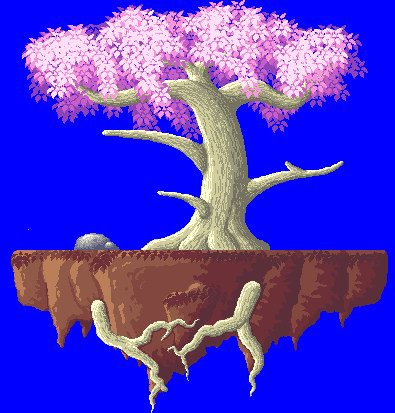
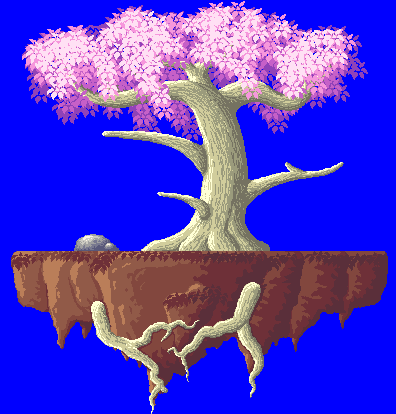
Added platforms

diff --git a/game/src/MyGame.cpp b/game/src/MyGame.cpp
@@ -77,7 +77,7 @@ void MyGame::on_Startup(void)
 
     Component<FlagComponent>::allow();
 
-    // window->set_Fullscreen();
+    window->set_Fullscreen();
 
     GEAR_DEBUG_LOG("width: %i height: %i", window->get_Width(), window->get_Height());
 
@@ -93,29 +93,74 @@ void MyGame::on_Startup(void)
     sprite.sprite = ResourceManager::get<Sprite>("assets/stages/floating_island/main_stage_bg.gear");
     sprite.offset = {-sprite.sprite->get_Width() / 2., -sprite.sprite->get_Height() / 2., -0.1};
 
-    Entity platform = main_Scene->create_Entity();
-    platform.add<TransformComponent>({{0, 0}, {1, 1}, 0});
-    platform.add<SpriteComponent>(sprite);
+    Entity stage = main_Scene->create_Entity();
+    stage.add<TransformComponent>({{0, 0}, {1, 1}, 0});
+    stage.add<SpriteComponent>(sprite);
 
     StaticPhysicsComponent physics;
     physics.collider = Collider::create(Rect{{-sprite.sprite->get_Width() / 2. + 16, -sprite.sprite->get_Height() / 2. + 250}, {sprite.sprite->get_Width() / 2. - 10, -sprite.sprite->get_Height() / 2. + 290}});
     physics.check = gear::default_Physics_Check;
     physics.restitution = 1;
-    platform.add<StaticPhysicsComponent>(physics);
+    stage.add<StaticPhysicsComponent>(physics);
 
     physics.check = platform_Physics_Check;
 
     sprite.sprite = ResourceManager::get<Sprite>("assets/stages/floating_island/main_stage_fg.gear");
     sprite.offset = {-sprite.sprite->get_Width() / 2., -sprite.sprite->get_Height() / 2., 0.1};
 
-    Entity platform2 = main_Scene->create_Entity();
-    platform2.add<TransformComponent>({{0, 0}, {1, 1}, 0});
-    platform2.add<SpriteComponent>(sprite);
+    Entity stage2 = main_Scene->create_Entity();
+    stage2.add<TransformComponent>({{0, 0}, {1, 1}, 0});
+    stage2.add<SpriteComponent>(sprite);
     //physics.collider = Collider::create(Rect{{-sprite.sprite->get_Width() / 2. + 250, -sprite.sprite->get_Height() / 2. + 11}, {-sprite.sprite->get_Width() / 2. + 280, sprite.sprite->get_Height() / 2. - 7}});
     //platform2.add<StaticPhysicsComponent>(physics);
 
-    medusa = main_Scene->create_Entity();
-    medusa.add<ScriptComponent>(ScriptComponent().bind<EisScript>(InputDevice::KEYBOARD));
+    p1 = main_Scene->create_Entity();
+    p1.add<ScriptComponent>(ScriptComponent().bind<EisScript>(InputDevice::KEYBOARD, "vanilla.gear"));
+    p1.set<TransformComponent>({{-100, -30}});
+
+    p2 = main_Scene->create_Entity();
+    p2.add<ScriptComponent>(ScriptComponent().bind<EisScript>(InputDevice::CONTROLLER_1, "dark.gear"));
+    p2.set<TransformComponent>({{100, -30}});
+
+    StaticPhysicsComponent physics2;
+    physics2.collider = Collider::create(Rect({0, 0}, {100, 6}));
+    physics2.check = platform_Physics_Check;
+
+    Entity platform1 = main_Scene->create_Entity();
+    platform1.set<TransformComponent>({{-sprite.sprite->get_Width() / 2 + 135., -sprite.sprite->get_Height() / 2 + 185.}, {1, 1}, 0});
+    platform1.add<StaticPhysicsComponent>(physics2);
+
+    physics2.collider = Collider::create(Rect({0, 0}, {100, 6}));
+
+    Entity platform2 = main_Scene->create_Entity();
+    platform2.set<TransformComponent>({{-sprite.sprite->get_Width() / 2 + 60., -sprite.sprite->get_Height() / 2 + 118.}, {1, 1}, 0});
+    platform2.add<StaticPhysicsComponent>(physics2);
+
+    physics2.collider = Collider::create(Rect({0, 0}, {100, 6}));
+
+    Entity platform3 = main_Scene->create_Entity();
+    platform3.set<TransformComponent>({{-sprite.sprite->get_Width() / 2 + 267., -sprite.sprite->get_Height() / 2 + 154.}, {1, 1}, 0});
+    platform3.add<StaticPhysicsComponent>(physics2);
+
+    //health_P1 = main_Scene->create_Entity();
+    // TextComponent t;
+    // t.text = "0.0%";
+    // t.font = ResourceManager::get<Font>("assets/fonts/font1.gear");
+    // t.colors = std::vector<Vector<uint8_t, 4>>(t.font->get_Colors());
+    // t.colors[0] = {240, 16, 16, 255};
+    // t.colors[1] = {120,  8,  8, 255};
+    // t.break_Word = true;
+    // t.height = 200;
+    // t.width = 200;
+    // t.offset = {-10, -20};
+    // p1.add<TextComponent>(t);
+
+    // //health_P2 = main_Scene->create_Entity();
+
+    // t.text = "15.0%";
+    // t.colors[0] = {16, 64, 255, 255};
+    // t.colors[1] = { 8, 32, 127, 255};
+    // p2.add<TextComponent>(t);
 
     main_Scene->update_Transformation();
 
@@ -128,9 +173,10 @@ void MyGame::on_Startup(void)
 
 void MyGame::render(void)
 {
-    cam_Pos = medusa.get<TransformComponent>()->position;
+    cam_Pos = (p1.get<TransformComponent>()->position + p2.get<TransformComponent>()->position) / 2;
 
     cam.follow_Target();
+    
     Renderer::start_New_Frame();
     Renderer::render_Scene(main_Scene);
     // Renderer::render_All_Hitboxes(main_Scene);

diff --git a/game/src/scripts/BaseFighterScript.cpp b/game/src/scripts/BaseFighterScript.cpp
@@ -18,7 +18,7 @@ static bool fighter_Physics_Check(gear::CollisionEvent e)
     return true;
 }
 
-BaseFighterScript::BaseFighterScript(InputDevice device, const char *base_Path)
+BaseFighterScript::BaseFighterScript(InputDevice device, const char *base_Path, std::string palette_Name)
 {
     if (!error_Animation)
         error_Animation = ResourceManager::get<Animation>("assets/fighters/_error/error.gear");
@@ -38,12 +38,12 @@ BaseFighterScript::BaseFighterScript(InputDevice device, const char *base_Path)
                 set_Direction(real_Val);
                 play_Animation(&a_Run[0]);
                 if (input->special->get_State() == State::PRESSED)
-                    GEAR_DEBUG_LOG("side special %i", real_Val);
+                    play_Animation(a_Sspecial, FIGHTER_ANIMATION_SPECIAL);
                 else if (input->attack->get_State() == State::PRESSED)
                     if (flags & FIGHTER_GROUND)
-                        GEAR_DEBUG_LOG("side ground %i", real_Val);
+                        play_Animation(a_Sground, FIGHTER_ANIMATION_ATTACK);
                     else
-                        GEAR_DEBUG_LOG("side air %i", real_Val);
+                        play_Animation(a_Sair, FIGHTER_ANIMATION_ATTACK);
             }
             else if (flags & FIGHTER_GROUND)
             {
@@ -58,12 +58,12 @@ BaseFighterScript::BaseFighterScript(InputDevice device, const char *base_Path)
         if (a == Action::PRESSED)
         {
             if (input->special->get_State() == State::PRESSED)
-                GEAR_DEBUG_LOG("up special");
+                play_Animation(a_Uspecial, FIGHTER_ANIMATION_SPECIAL);
             else if (input->attack->get_State() == State::PRESSED)
                 if (flags & FIGHTER_GROUND)
-                    GEAR_DEBUG_LOG("up ground");
+                    play_Animation(a_Uground, FIGHTER_ANIMATION_ATTACK);
                 else
-                    GEAR_DEBUG_LOG("up air");
+                    play_Animation(a_Uair, FIGHTER_ANIMATION_ATTACK);
         }
     };
 
@@ -72,12 +72,12 @@ BaseFighterScript::BaseFighterScript(InputDevice device, const char *base_Path)
         if (a == Action::PRESSED)
         {
             if (input->special->get_State() == State::PRESSED)
-                GEAR_DEBUG_LOG("down special");
+                play_Animation(a_Dspecial, FIGHTER_ANIMATION_SPECIAL);
             else if (input->attack->get_State() == State::PRESSED)
                 if (flags & FIGHTER_GROUND)
-                    GEAR_DEBUG_LOG("down ground");
+                    play_Animation(a_Dground, FIGHTER_ANIMATION_ATTACK);
                 else
-                    GEAR_DEBUG_LOG("down air");
+                    play_Animation(a_Dair, FIGHTER_ANIMATION_ATTACK);
         }
     };
 
@@ -179,7 +179,7 @@ BaseFighterScript::BaseFighterScript(InputDevice device, const char *base_Path)
     physics.check = fighter_Physics_Check;
 
     init_Input();
-    init_Animations(base_Path);
+    init_Animations(base_Path, palette_Name);
 }
 
 BaseFighterScript::~BaseFighterScript() {}
@@ -232,10 +232,10 @@ void BaseFighterScript::init_Animation(AnimationComponent *animation, std::strin
     };
 }
 
-void BaseFighterScript::init_Animations(const char *base_Path)
+void BaseFighterScript::init_Animations(const char *base_Path, std::string palette_Name)
 {
     std::string path = base_Path;
-    palette = ResourceManager::get<Palette>(path + "/palettes/default.gear");
+    palette = ResourceManager::get<Palette>(path + "/palettes/" + palette_Name);
 
     init_Animation(&a_Idle[0], path + "/animations/right/idle.gear", palette);
     init_Animation(&a_Run[0], path + "/animations/right/run.gear", palette);

diff --git a/gear/src/gear/renderer/Renderer.cpp b/gear/src/gear/renderer/Renderer.cpp
@@ -115,7 +115,7 @@ void gear::Renderer::render_Scene(gear::Scene *scene)
     glUniform1i(glGetUniformLocation(SpritePipeline::get_Instance().m_Shader, "u_Frame_Height"), m_Framebuffer.m_Height);
 
     if (m_Camera != nullptr)
-        glUniform2f(glGetUniformLocation(SpritePipeline::get_Instance().m_Shader, "u_Camera_Pos"), m_Camera->get_Position()[0], m_Camera->get_Position()[1]);
+        glUniform2f(glGetUniformLocation(SpritePipeline::get_Instance().m_Shader, "u_Camera_Pos"), round(m_Camera->get_Position()[0]), round(m_Camera->get_Position()[1]));
     else
         glUniform2f(glGetUniformLocation(SpritePipeline::get_Instance().m_Shader, "u_Camera_Pos"), 0, 0);
 
@@ -126,7 +126,7 @@ void gear::Renderer::render_Scene(gear::Scene *scene)
     glUniform1i(glGetUniformLocation(TextPipeline::get_Instance().m_Shader, "u_Frame_Height"), m_Framebuffer.m_Height);
 
     if (m_Camera != nullptr)
-        glUniform2f(glGetUniformLocation(TextPipeline::get_Instance().m_Shader, "u_Camera_Pos"), m_Camera->get_Position()[0], m_Camera->get_Position()[1]);
+        glUniform2f(glGetUniformLocation(TextPipeline::get_Instance().m_Shader, "u_Camera_Pos"), round(m_Camera->get_Position()[0]), round(m_Camera->get_Position()[1]));
     else
         glUniform2f(glGetUniformLocation(TextPipeline::get_Instance().m_Shader, "u_Camera_Pos"), 0, 0);
 
@@ -145,7 +145,7 @@ void gear::Renderer::render_Shape(const gear::Shape *shape, const Vector<float, 
     glUniform1i(glGetUniformLocation(ShapePipeline::get_Instance().m_Shader, "u_Frame_Height"), m_Framebuffer.m_Height);
 
     if (m_Camera != nullptr)
-        glUniform2f(glGetUniformLocation(ShapePipeline::get_Instance().m_Shader, "u_Camera_Pos"), int(m_Camera->get_Position()[0] + 0.5), int(m_Camera->get_Position()[1] + 0.5));
+        glUniform2f(glGetUniformLocation(ShapePipeline::get_Instance().m_Shader, "u_Camera_Pos"), round(m_Camera->get_Position()[0]), round(m_Camera->get_Position()[1]));
     else
         glUniform2f(glGetUniformLocation(ShapePipeline::get_Instance().m_Shader, "u_Camera_Pos"), 0, 0);
     ShapePipeline::get_Instance().render_Shape(shape, color);

diff --git a/game/src/scripts/EisScript.cpp b/game/src/scripts/EisScript.cpp
@@ -13,7 +13,7 @@
 
 using namespace gear;
 
-EisScript::EisScript(InputDevice device) : BaseFighterScript(device, "assets/fighters/eis") {
+EisScript::EisScript(InputDevice device, std::string palette_Name) : BaseFighterScript(device, "assets/fighters/eis", palette_Name) {
     physics.collider = Collider::create(Rect{{-12, 10}, {12, 28}});
 }
 
@@ -41,21 +41,21 @@ void EisScript::spawn_Projectile(void) {
     transform.position[0] += 26 * transform.scale[0];
     transform.position[1] += 10;
     proj.set<TransformComponent>(transform);
-    proj.update_Transformation();
 
     proj.add<AnimationComponent>(a_Projectile[0]);
 
     DynamicPhysicsComponent physics;
     physics.acceleration = {0, 0};
     physics.collider = Collider::create(Circle{{0, 0}, 7});
-    physics.velocity = 300 * transform.scale[0];
+    physics.velocity = 100 * transform.scale[0];
     proj.add<DynamicPhysicsComponent>(physics);
+    proj.update_Transformation();
 
     class ProjectileScript : public ScriptableEntity {
     private:
         double time_To_Live = 1;
 
-        void pre_Physics(void) override {
+        void pre_Input(void) override {
             time_To_Live -= Game::get_Delta_Time();
             if(time_To_Live <= 0)
                 Scene::get(m_Entity.get_Scene_ID())->remove_Entity(m_Entity);

diff --git a/gear/src/gear/renderer/pipelines/TextPipeline.cpp b/gear/src/gear/renderer/pipelines/TextPipeline.cpp
@@ -190,6 +190,7 @@ void gear::TextPipeline::render_Text(Entity parent, TextComponent &text, Transfo
         glGenBuffers(1, &data.vertex_Buffer_ID);
         glGenBuffers(1, &data.index_Buffer_ID);
 
+        GEAR_DEBUG_LOG("colors[0]: {%i, %i, %i, %i}", data.state.colors[0][0], data.state.colors[0][1], data.state.colors[0][2], data.state.colors[0][3]);
         instance.generate_Buffers(&data);
 
         instance.m_Cache[parent.get_Scene_ID()].insert({parent.get_Entity_ID(), data});
@@ -207,6 +208,8 @@ void gear::TextPipeline::render_Text(Entity parent, TextComponent &text, Transfo
             text.break_Word != text_Other.break_Word)
         {
             instance.m_Cache[parent.get_Scene_ID()][parent.get_Entity_ID()].state = text;
+            auto data = instance.m_Cache[parent.get_Scene_ID()][parent.get_Entity_ID()];
+            GEAR_DEBUG_LOG("colors[0]: {%i, %i, %i, %i}", data.state.colors[0][0], data.state.colors[0][1], data.state.colors[0][2], data.state.colors[0][3]);
             instance.generate_Buffers(&(instance.m_Cache[parent.get_Scene_ID()][parent.get_Entity_ID()]));
         }
     }

diff --git a/game/src/scripts/BaseFighterScript.h b/game/src/scripts/BaseFighterScript.h
@@ -39,6 +39,9 @@ protected:
     double jump_Strenght = 400;
     double air_Jump_Strength = 350;
 
+    int max_Health = 500;
+    int health = 500;
+
     std::function<void(gear::Action)>
         up_Callback,
         down_Callback,
@@ -74,20 +77,20 @@ protected:
         a_Get_Up[2];
 
 public:
-    BaseFighterScript(gear::InputDevice device, const char *base_Path);
+    BaseFighterScript(gear::InputDevice device, const char *base_Path, std::string palette_Name);
     ~BaseFighterScript();
 
     virtual void init(void) override;
 
     virtual void init_Input(void);
-    virtual void init_Animations(const char *base_Path);
+    virtual void init_Animations(const char *base_Path, std::string palette_Name);
 
     void init_Animation(gear::AnimationComponent *animation, std::string path, gear::Ref<gear::Palette> palette);
 
     static int axis_As_Int(float value);
 
     virtual void pre_Physics(void) override;
-    virtual void init_Animation_Events(void) = 0;
+    virtual void init_Animation_Events(void);
 
     // virtual void damage(double damage);
 

diff --git a/gear/src/gear/collision/shapes/Circle.cpp b/gear/src/gear/collision/shapes/Circle.cpp
@@ -15,7 +15,7 @@ void gear::Circle::transform(const gear::TransformComponent *transform, gear::Sh
   Circle *s = (Circle *)transformed_Shape;
   s->m_Enabled = m_Enabled;
   s->position = (transform->get_Matrix() * Vector<double, 3>{position[0], position[1], 1}).use_As<2>();
-  s->radius = sqrt(transform->scale[0] * transform->scale[1]) * radius;
+  s->radius = sqrt(abs(transform->scale[0] * transform->scale[1])) * radius;
 }
 
 void gear::Circle::assign(const gear::Shape *other)

diff --git a/game/src/scripts/MedusaScript.cpp b/game/src/scripts/MedusaScript.cpp
@@ -4,7 +4,7 @@
 
 using namespace gear;
 
-MedusaScript::MedusaScript(InputDevice device) : BaseFighterScript(device, "assets/fighters/medusa") {
+MedusaScript::MedusaScript(InputDevice device, std::string palette_Name) : BaseFighterScript(device, "assets/fighters/medusa", palette_Name) {
     physics.collider = Collider::create(Rect{{-6, -28}, {6, 25}});
 }
 

diff --git a/game/src/scripts/EisScript.h b/game/src/scripts/EisScript.h
@@ -5,7 +5,7 @@ class EisScript : public BaseFighterScript
 protected:
     gear::AnimationComponent a_Projectile[2];
 public:
-    EisScript(gear::InputDevice device);
+    EisScript(gear::InputDevice device, std::string palette_Name);
 
     virtual void init_Animation_Events(void) override;
 

diff --git a/game/src/MyGame.h b/game/src/MyGame.h
@@ -15,7 +15,8 @@ public:
 class MyGame : public gear::Game
 {
 private:
-    gear::Entity medusa;
+    gear::Entity p1, p2;
+    gear::Entity health_P1, health_P2;
     gear::Ref<gear::Palette> palettes[7];
     int palette_Index = 0;
     gear::Vector<double, 2> m_Target_Pos;

diff --git a/gear/src/gear/renderer/TextComponent.h b/gear/src/gear/renderer/TextComponent.h
@@ -16,8 +16,8 @@ _GEAR_START
 void _clear_Text_Cache(unsigned int entityID);
 
 struct TextComponent {
-  bool raw_Text = true;
   std::string text;
+  bool raw_Text = true;
   Ref<Font> font;
   Vector<double, 3> offset = {0, 0, 0};
   unsigned int width, height;

diff --git a/game/src/scripts/MedusaScript.h b/game/src/scripts/MedusaScript.h
@@ -5,6 +5,6 @@
 class MedusaScript : public BaseFighterScript
 {
 public:
-    MedusaScript(gear::InputDevice device);
+    MedusaScript(gear::InputDevice device, std::string palette_Name);
     virtual void init_Animation_Events(void) override;
 };
